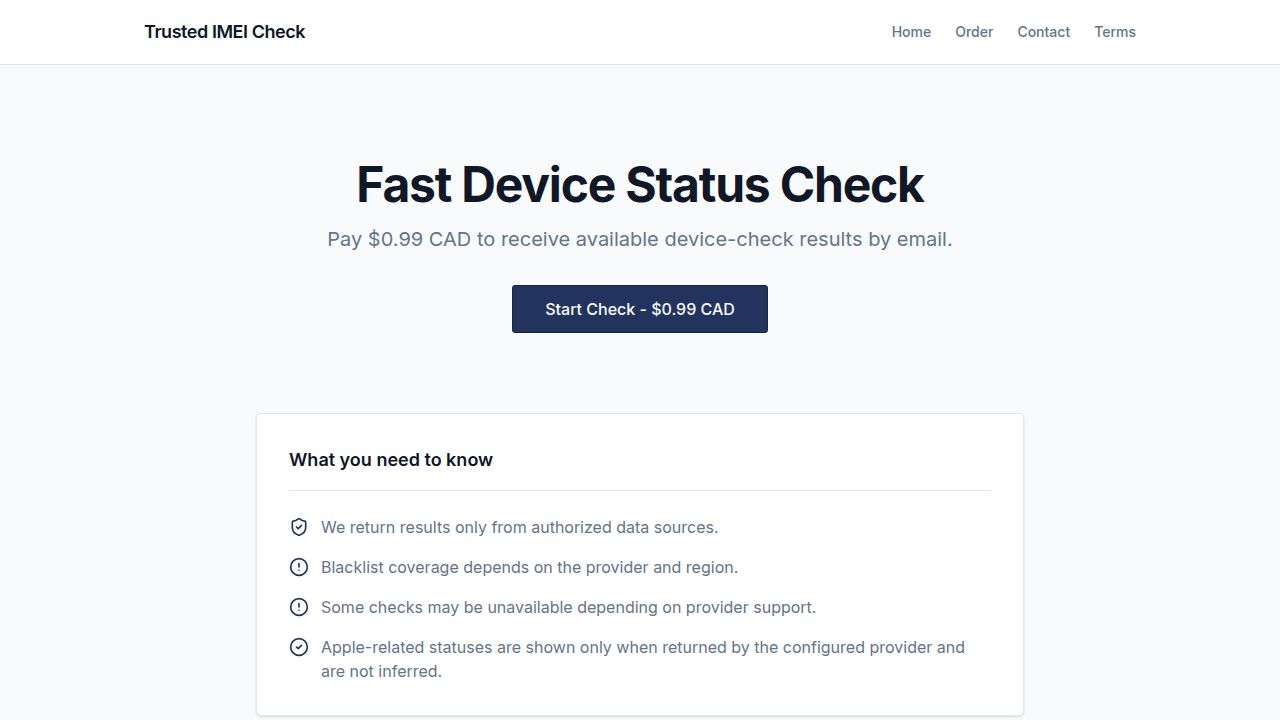
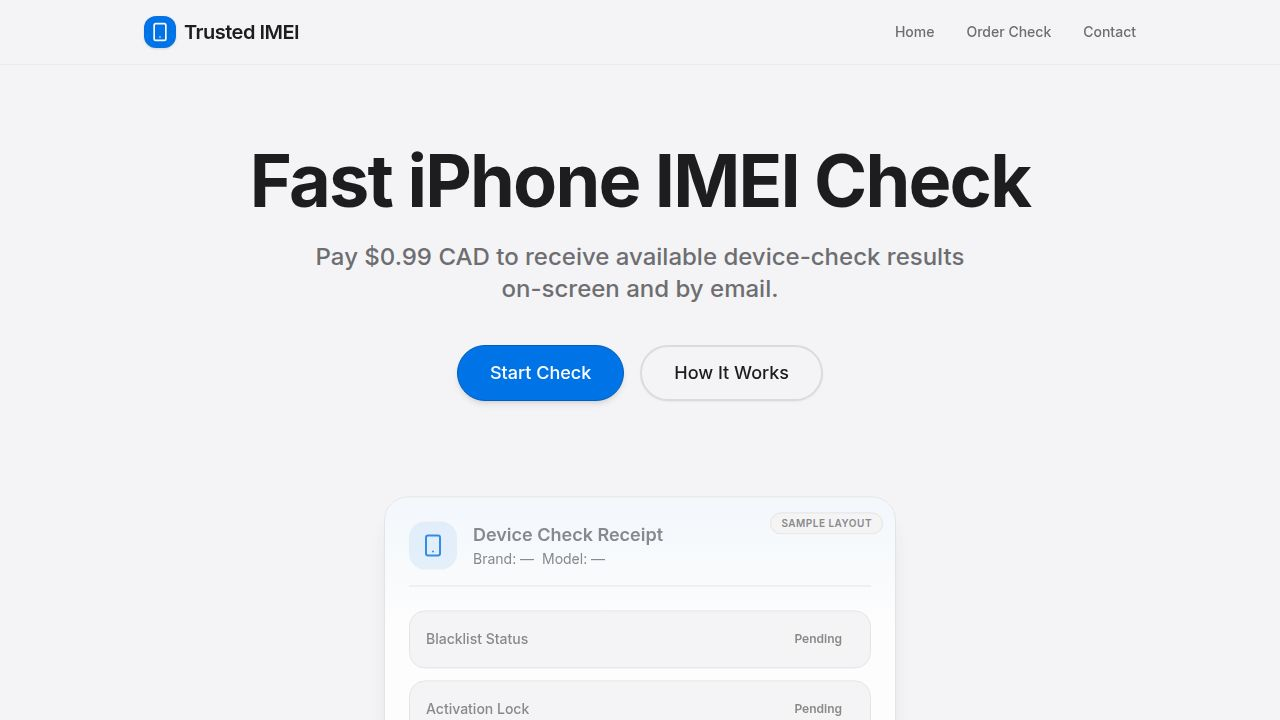
Update website copy to inform users about on-screen and email results
Modify UI text across multiple pages (home, order, success, results) to clarify that device check results are displayed on-screen and also emailed to the user.

Replit-Commit-Author: Agent
Replit-Commit-Session-Id: 11af5991-544c-4fe1-ae1a-b7e43a47bc21
Replit-Commit-Checkpoint-Type: full_checkpoint
Replit-Commit-Event-Id: 63514c36-5db7-434b-9be1-d77fdaad7ae2
Replit-Commit-Screenshot-Url: https://storage.googleapis.com/screenshot-production-us-central1/bce2eb16-ce01-438a-b34b-e4f7c7870780/11af5991-544c-4fe1-ae1a-b7e43a47bc21/qcrbDvD
Replit-Helium-Checkpoint-Created: true

diff --git a/artifacts/imei-check/src/pages/home.tsx b/artifacts/imei-check/src/pages/home.tsx
@@ -23,7 +23,7 @@ export default function Home() {
               Fast iPhone IMEI Check
             </h1>
             <p className="text-xl md:text-2xl text-muted-foreground max-w-2xl mx-auto font-medium" data-testid="text-home-subheadline">
-              Pay $0.99 CAD to receive available device-check results by email.
+              Pay $0.99 CAD to receive available device-check results on-screen and by email.
             </p>
           </motion.div>
 
@@ -86,7 +86,7 @@ export default function Home() {
                   </span>
                 </div>
               </div>
-              <p className="text-xs text-muted-foreground text-center mt-4">Results delivered to your inbox after payment</p>
+              <p className="text-xs text-muted-foreground text-center mt-4">Results shown on-screen and emailed to you after payment</p>
             </div>
           </motion.div>
 
@@ -114,7 +114,7 @@ export default function Home() {
               { icon: Mail, title: "Enter Email", desc: "Where we'll send the report." },
               { icon: Smartphone, title: "Enter IMEI", desc: "Found in Settings or dialing *#06#." },
               { icon: CreditCard, title: "Pay $0.99", desc: "Secure checkout via Stripe." },
-              { icon: ChevronRight, title: "Get Results", desc: "Delivered instantly to your inbox." }
+              { icon: ChevronRight, title: "Get Results", desc: "Shown on-screen and emailed to you." }
             ].map((step, i) => (
               <Card key={i} className="rounded-3xl border-none shadow-md bg-card">
                 <CardContent className="p-8 flex flex-col items-center text-center space-y-4">
@@ -139,7 +139,7 @@ export default function Home() {
                 <span className="text-xl text-muted-foreground font-medium">CAD</span>
               </div>
               <ul className="space-y-4 w-full mb-10 text-left">
-                <li className="flex items-center gap-3"><CheckCircle2 className="w-5 h-5 text-primary" /> <span>Instant email delivery</span></li>
+                <li className="flex items-center gap-3"><CheckCircle2 className="w-5 h-5 text-primary" /> <span>On-screen results + email copy</span></li>
                 <li className="flex items-center gap-3"><CheckCircle2 className="w-5 h-5 text-primary" /> <span>Blacklist status check</span></li>
                 <li className="flex items-center gap-3"><CheckCircle2 className="w-5 h-5 text-primary" /> <span>Activation lock status (when available)</span></li>
                 <li className="flex items-center gap-3"><CheckCircle2 className="w-5 h-5 text-primary" /> <span>Secure Stripe payment</span></li>
@@ -192,9 +192,15 @@ export default function Home() {
               </AccordionContent>
             </AccordionItem>
             <AccordionItem value="item-2" className="border-b-border/50 py-2">
+              <AccordionTrigger className="text-base font-semibold hover:no-underline hover:text-primary">How do I receive my results?</AccordionTrigger>
+              <AccordionContent className="text-muted-foreground leading-relaxed text-base">
+                After your payment is confirmed, your device-check results are shown on a receipt-style results page and a copy is also sent to your email address.
+              </AccordionContent>
+            </AccordionItem>
+            <AccordionItem value="item-2b" className="border-b-border/50 py-2">
               <AccordionTrigger className="text-base font-semibold hover:no-underline hover:text-primary">How long do results take?</AccordionTrigger>
               <AccordionContent className="text-muted-foreground leading-relaxed text-base">
-                Results are typically processed instantly and emailed to you within minutes of successful payment.
+                Results are typically processed within minutes of successful payment. You will be redirected to your results page automatically.
               </AccordionContent>
             </AccordionItem>
             <AccordionItem value="item-3" className="border-b-border/50 py-2">

diff --git a/artifacts/imei-check/src/pages/order.tsx b/artifacts/imei-check/src/pages/order.tsx
@@ -165,9 +165,16 @@ export default function Order() {
                   <div className="bg-background border rounded-2xl p-5 space-y-4 shadow-sm">
                     <h3 className="font-semibold text-sm uppercase tracking-wider text-muted-foreground">Included</h3>
                     <ul className="space-y-3 text-sm">
-                      <li className="flex items-center gap-3 font-medium"><CheckCircle2 className="w-5 h-5 text-success" /> Email Delivery</li>
+                      <li className="flex items-center gap-3 font-medium"><CheckCircle2 className="w-5 h-5 text-success" /> On-screen results page</li>
+                      <li className="flex items-center gap-3 font-medium"><CheckCircle2 className="w-5 h-5 text-success" /> Email copy of results</li>
                       <li className="flex items-center gap-3 font-medium"><CheckCircle2 className="w-5 h-5 text-success" /> Blacklist Check</li>
                     </ul>
+                  </div>
+
+                  <div className="bg-primary/5 border border-primary/20 rounded-2xl p-4 text-sm text-muted-foreground space-y-1">
+                    <p className="font-semibold text-foreground">What happens next?</p>
+                    <p>After payment, your device check will be processed and your results will be shown on a receipt-style results page.</p>
+                    <p>A copy of your results will also be emailed to you.</p>
                   </div>
 
                   <div className="space-y-3 text-xs text-muted-foreground bg-muted p-4 rounded-2xl">

diff --git a/artifacts/imei-check/src/pages/success.tsx b/artifacts/imei-check/src/pages/success.tsx
@@ -24,15 +24,18 @@ export default function Success() {
               </div>
               
               <div className="space-y-4">
-                <h1 className="text-3xl font-bold tracking-tight" data-testid="text-success-title">Payment Received</h1>
+                <h1 className="text-3xl font-bold tracking-tight" data-testid="text-success-title">Payment Confirmed</h1>
                 <p className="text-muted-foreground text-lg font-medium max-w-sm mx-auto leading-relaxed" data-testid="text-success-message">
-                  Thank you. Your device check is currently processing securely.
+                  Running device check. Preparing your results.
                 </p>
               </div>
 
-              <div className="bg-background rounded-2xl p-6 border shadow-sm" data-testid="text-success-details">
+              <div className="bg-background rounded-2xl p-6 border shadow-sm space-y-3" data-testid="text-success-details">
                 <p className="text-muted-foreground font-medium">
-                  We will email you the detailed report as soon as it is available (usually within minutes). You may close this page.
+                  Your results will appear on the next page and a copy will be sent to your email.
+                </p>
+                <p className="text-sm text-muted-foreground">
+                  This usually takes just a few minutes.
                 </p>
               </div>
 

diff --git a/artifacts/imei-check/src/pages/results.tsx b/artifacts/imei-check/src/pages/results.tsx
@@ -172,7 +172,7 @@ export default function Results() {
           </div>
 
           <p className="text-center text-sm text-muted-foreground">
-            This page refreshes automatically. Results will also be emailed to you when ready.
+            This page refreshes automatically. Your results will appear here once processing is complete and a copy will be sent to your email.
           </p>
         </div>
       </Layout>
@@ -264,6 +264,9 @@ export default function Results() {
           <h1 className="text-4xl font-bold tracking-tight" data-testid="text-results-title">Device Report</h1>
           <p className="text-muted-foreground flex items-center justify-center gap-2">
             <Hash className="w-4 h-4" /> Order #{results.orderId.split('-')[0]}
+          </p>
+          <p className="text-sm text-muted-foreground pt-1" data-testid="text-results-delivery-note">
+            Your device-check results are shown below and have also been emailed to you.
           </p>
         </div>
 
